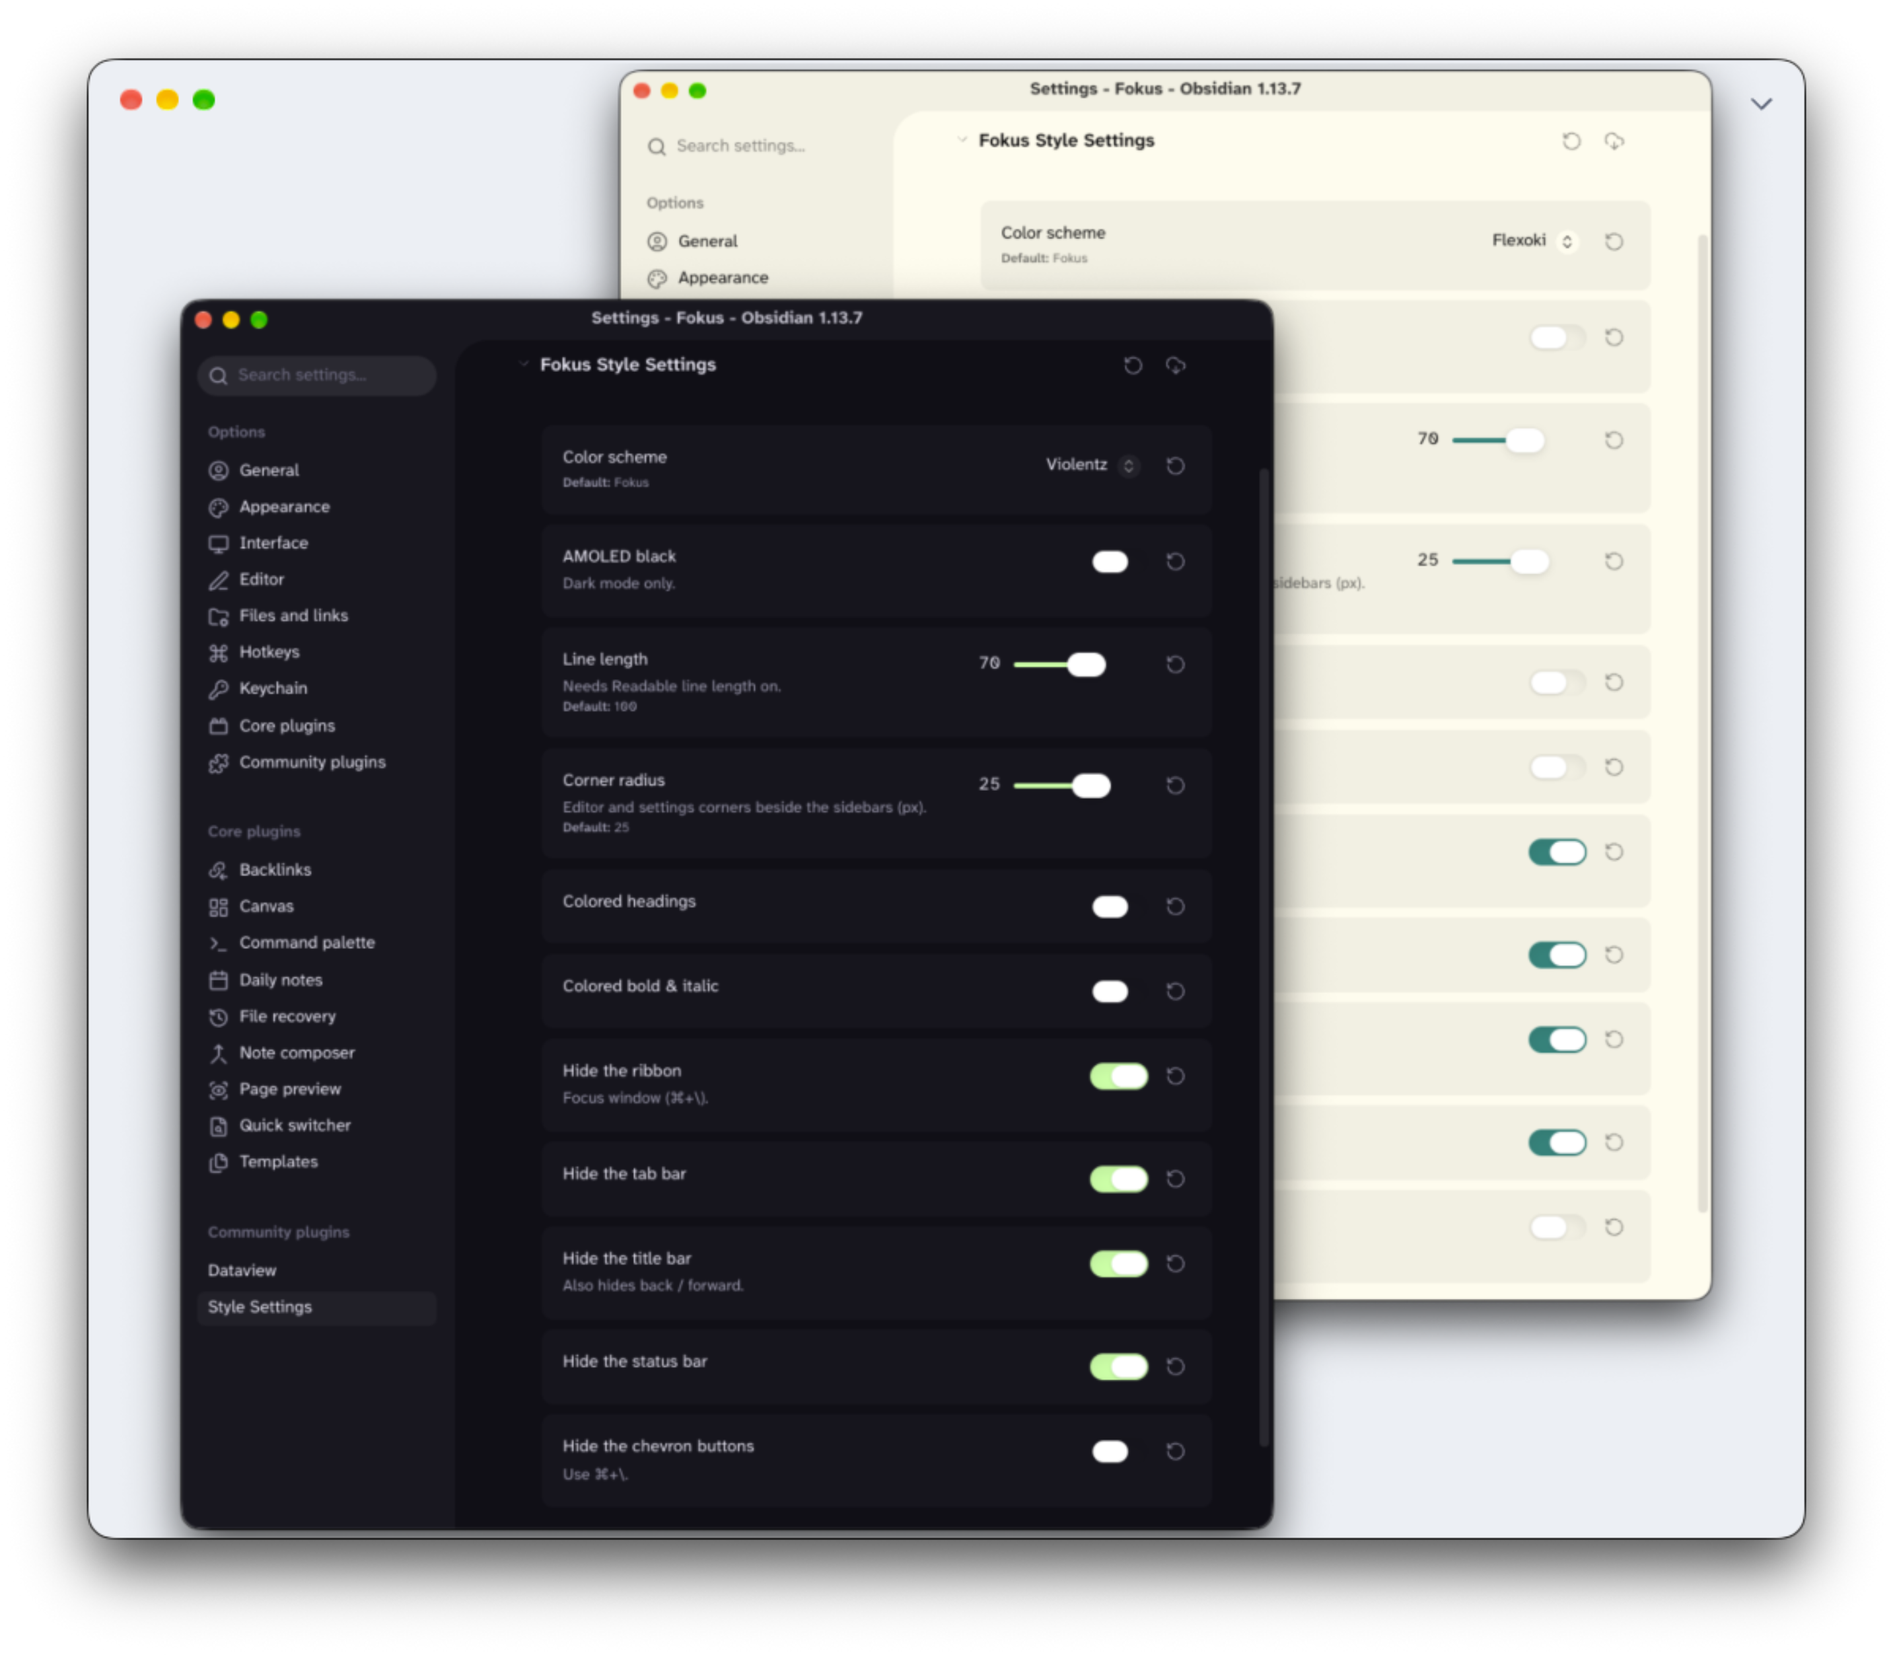
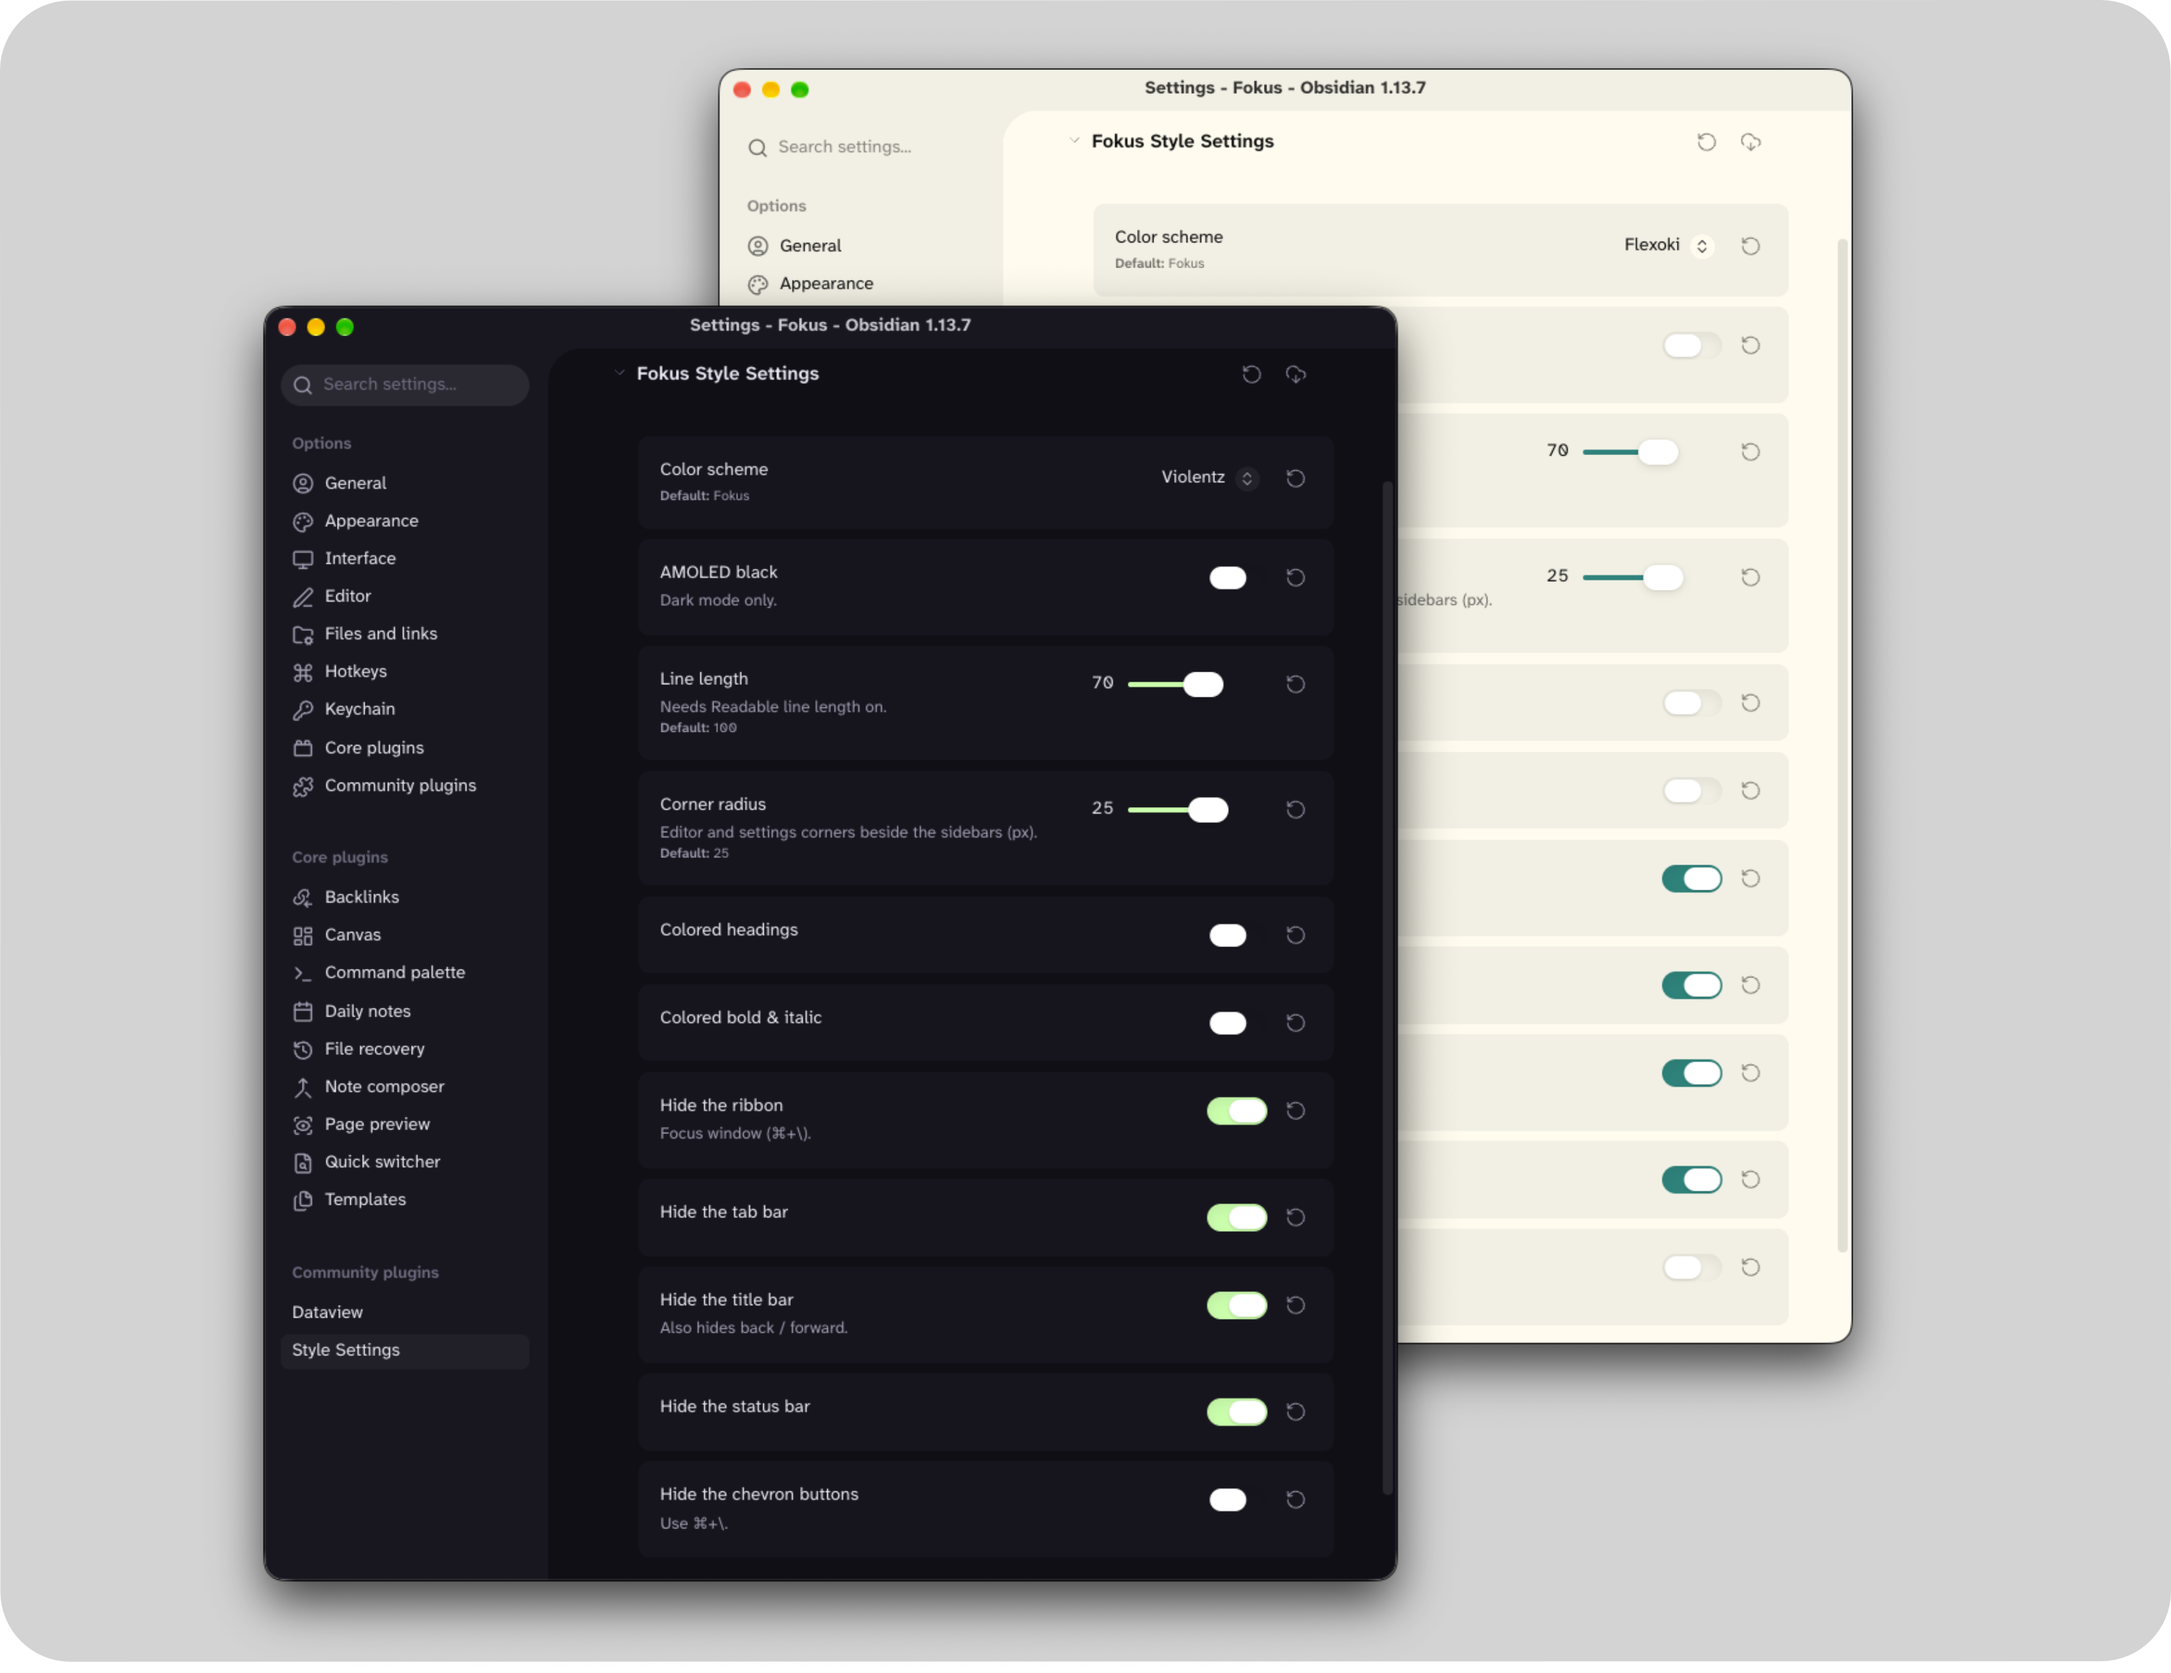
README: final screenshots

diff --git a/README.md b/README.md
@@ -2,11 +2,11 @@
 
 A borderless Obsidian theme with 20+ color schemes (light + dark each) and a distraction-free Fokus window.
 
-![Writing in the Fokus window](screenshots/writing.jpg)
+![Writing in the Fokus window](screenshots/writing.png)
 
 ## The interface
 
-![Fokus across color schemes](screenshots/fokus.jpg)
+![Fokus across color schemes](screenshots/fokus.png)
 
 - **Borderless.** No divider lines: panes are set apart by tone, and menus, dialogs and the command palette float on a soft shadow.
 - **20+ color schemes**, each with light and dark variants, all meeting WCAG AA contrast. *AMOLED black* makes dark backgrounds pure black.
@@ -20,7 +20,7 @@ A borderless Obsidian theme with 20+ color schemes (light + dark each) and a dis
 
 Needs the companion plugin **[Fokus Window Mode](https://github.com/ike-V/obsidian-fokus-window-mode)**.
 
-![Fokus window across color schemes](screenshots/fokus-window.jpg)
+![Fokus window across color schemes](screenshots/fokus-window.png)
 
 **⌘+\\** or the ⌃ chevron in the tab bar turns the window into a single page of writing.
 
